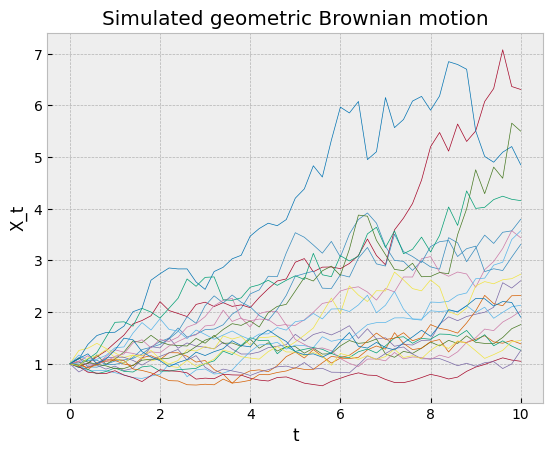
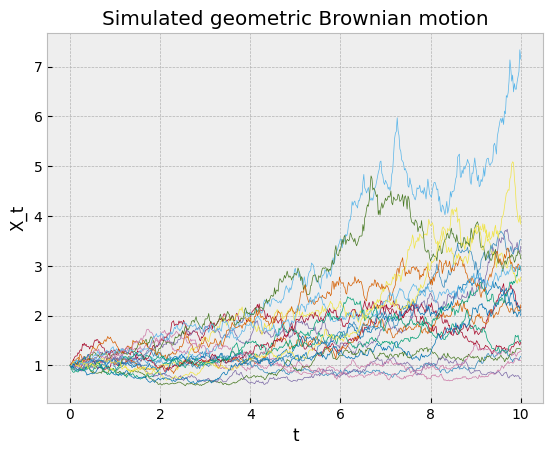
Built site for gh-pages

diff --git a/posts/2023-11-12-Masked-autoregressive-flows-for-stochastic-differential-equations.html b/posts/2023-11-12-Masked-autoregressive-flows-for-stochastic-differential-equations.html
@@ -8,7 +8,7 @@
 
 <meta name="author" content="Yves Barmaz">
 <meta name="dcterms.date" content="2023-11-12">
-<meta name="description" content="Common methods for solving SDEs are discussed, along with their limitations for solving inference problems. Conditional masked autoregressive flows are presented as a flexible alternative.">
+<meta name="description" content="Common methods for solving SDEs are discussed, along with their limitations when it comes to statistical inference. Conditional masked autoregressive flows are presented as a flexible alternative.">
 
 <title>Yves Barmaz’s blog - Masked autoregressive flows for stochastic differential equations</title>
 <style>
@@ -172,7 +172,7 @@ code span.wa { color: #60a0b0; font-weight: bold; font-style: italic; } /* Warni
       <h1 class="title">Masked autoregressive flows for stochastic differential equations</h1>
                   <div>
         <div class="description">
-          Common methods for solving SDEs are discussed, along with their limitations for solving inference problems. Conditional masked autoregressive flows are presented as a flexible alternative.
+          Common methods for solving SDEs are discussed, along with their limitations when it comes to statistical inference. Conditional masked autoregressive flows are presented as a flexible alternative.
         </div>
       </div>
                           <div class="quarto-categories">
@@ -219,23 +219,24 @@ code span.wa { color: #60a0b0; font-weight: bold; font-style: italic; } /* Warni
 <p><span class="math display">\[
 dX_t = \mu(X_t, t)dt + \sigma(X_t, t)dW_t,
 \]</span></p>
-<p>with a drift <span class="math inline">\(\mu(X, t)\)</span> and a volatility <span class="math inline">\(\sigma(X, t)\)</span>.</p>
+<p>where <span class="math inline">\(\mu(X, t)\)</span> is called the drift and <span class="math inline">\(\sigma(X, t)\)</span> the volatility.</p>
 <p>In statistical physics, the random variable <span class="math inline">\(X_t\)</span> can describe the positions at time <span class="math inline">\(t\)</span> of a population of molecules swimming around in water, bumping randomly into smaller molecules following a <a href="https://en.wikipedia.org/wiki/Wiener_process">Wiener process</a> <span class="math inline">\(W_t\)</span>. In finance, <span class="math inline">\(X_t\)</span> can describe the uncertainty over an asset price in the future due to the random behavior of market participants.</p>
-<p>Solving this SDE means finding the probability distribution of <span class="math inline">\(X_t\)</span> for <span class="math inline">\(t&gt;0\)</span>, given the initial distribution of <span class="math inline">\(X_{t=0}\)</span>. This can be done by specifying the probability density function (PDF) <span class="math inline">\(p(x; t)\)</span> for <span class="math inline">\(t&gt;0\)</span> given the initial PDF <span class="math inline">\(p(x; t=0)\)</span> (here the semicolon indicates that <span class="math inline">\(x\)</span> is the value realized by the random variable and <span class="math inline">\(t\)</span> the time parameter).</p>
-<p>For certain special cases of <span class="math inline">\(\mu(X, t)\)</span> and <span class="math inline">\(\sigma(X, t)\)</span>, that include Brownian motions (where <span class="math inline">\(\mu\)</span> and <span class="math inline">\(\sigma\)</span> are both constant), the solution follows a normal distribution <span class="math inline">\(X_t \sim \mathcal{N}(m(t), s(t))\)</span> where the parameters <span class="math inline">\(m(t)\)</span> and <span class="math inline">\(s(t)\)</span> obey certain ordinary differential equations, which can be solved with standard methods.</p>
+<p>Solving this SDE means finding the probability distribution of <span class="math inline">\(X_t\)</span> for <span class="math inline">\(t&gt;0\)</span>, given the initial distribution of <span class="math inline">\(X_{t=0}\)</span>. This can be done by specifying the probability density function (PDF) <span class="math inline">\(p(x; t)\)</span> for <span class="math inline">\(t&gt;0\)</span> given the initial PDF <span class="math inline">\(p(x; t=0)\)</span> (here the semicolon indicates that <span class="math inline">\(x\)</span> is the value realized by the random variable, and <span class="math inline">\(t\)</span> the time parameter that indexes the distributions).</p>
+<p>For certain special cases of <span class="math inline">\(\mu(X, t)\)</span> and <span class="math inline">\(\sigma(X, t)\)</span>, the SDE can be solved explicitly (see these <a href="https://ethz.ch/content/dam/ethz/special-interest/mavt/dynamic-systems-n-control/idsc-dam/Lectures/Stochastic-Systems/SDE.pdf">lecture notes</a> for some examples). In general, one has to rely on numerical methods.</p>
 </section>
 <section id="euler-maruyama" class="level2">
 <h2 class="anchored" data-anchor-id="euler-maruyama">Euler-Maruyama</h2>
-<p>In general, one relies instead on numerical approximations, for instance the <a href="https://en.wikipedia.org/wiki/Euler%E2%80%93Maruyama_method">Euler–Maruyama method</a> that generates approximated samples of the process <span class="math inline">\(X_t\)</span> at discretized time steps <span class="math inline">\(t_1, \dots, t_N\)</span>,</p>
+<p>The <a href="https://en.wikipedia.org/wiki/Euler%E2%80%93Maruyama_method">Euler–Maruyama method</a> is probably the most flexible one. It generates approximated samples of the process <span class="math inline">\(X_t\)</span> at discretized time steps <span class="math inline">\(t_1, \dots, t_N\)</span>,</p>
 <p><span class="math display">\[
-X_{i+1} = X_i + \mu(X_i, t_i)\Delta t_i + \sigma(X_i, t_i)\,\sqrt{\Delta t_i}\, Z_i, \quad Z_i \sim \mathcal{N}(0,1).
+X_{i+1} = X_i + \mu(X_i, t_i)\Delta t_i + \sigma(X_i, t_i)\,\sqrt{\Delta t_i}\, Z_i,
 \]</span></p>
-<p>In TensorFlow Probability, this can be implemented as a <code>tfd.MarkovChain</code> distribution. The following code snippet implements a geometric Brownian motion.</p>
-<div class="cell" data-execution_count="2">
+<p>where every <span class="math inline">\(Z_i\)</span> is drawn from a standard normal distribution.</p>
+<p>In TensorFlow Probability, this method can be implemented as a <code>tfd.MarkovChain</code> distribution. The following code snippet illustrates it with a geometric Brownian motion.</p>
+<div class="cell" data-execution_count="12">
 <div class="sourceCode cell-code" id="cb1"><pre class="sourceCode python code-with-copy"><code class="sourceCode python"><span id="cb1-1"><a href="#cb1-1" aria-hidden="true" tabindex="-1"></a>drift <span class="op">=</span> <span class="fl">.1</span></span>
 <span id="cb1-2"><a href="#cb1-2" aria-hidden="true" tabindex="-1"></a>volatility <span class="op">=</span> <span class="fl">.2</span></span>
 <span id="cb1-3"><a href="#cb1-3" aria-hidden="true" tabindex="-1"></a></span>
-<span id="cb1-4"><a href="#cb1-4" aria-hidden="true" tabindex="-1"></a>n_steps <span class="op">=</span> <span class="dv">51</span></span>
+<span id="cb1-4"><a href="#cb1-4" aria-hidden="true" tabindex="-1"></a>n_steps <span class="op">=</span> <span class="dv">501</span></span>
 <span id="cb1-5"><a href="#cb1-5" aria-hidden="true" tabindex="-1"></a>time <span class="op">=</span> tf.linspace(<span class="fl">0.</span>, <span class="dv">10</span>, n_steps)</span>
 <span id="cb1-6"><a href="#cb1-6" aria-hidden="true" tabindex="-1"></a>time_step <span class="op">=</span> np.mean(np.diff(time))</span>
 <span id="cb1-7"><a href="#cb1-7" aria-hidden="true" tabindex="-1"></a></span>
@@ -247,7 +248,7 @@ X_{i+1} = X_i + \mu(X_i, t_i)\Delta t_i + \sigma(X_i, t_i)\,\sqrt{\Delta t_i}\, 
 <span id="cb1-13"><a href="#cb1-13" aria-hidden="true" tabindex="-1"></a>            num_steps<span class="op">=</span>n_steps,</span>
 <span id="cb1-14"><a href="#cb1-14" aria-hidden="true" tabindex="-1"></a>            name<span class="op">=</span><span class="st">'geometric_brownian_motion'</span>)</span></code><button title="Copy to Clipboard" class="code-copy-button"><i class="bi"></i></button></pre></div>
 </div>
-<div class="cell" data-execution_count="3">
+<div class="cell" data-execution_count="13">
 <div class="cell-output cell-output-display">
 <p><img src="2023-11-12-Masked-autoregressive-flows-for-stochastic-differential-equations_files/figure-html/cell-4-output-1.png" class="img-fluid"></p>
 </div>
@@ -256,11 +257,11 @@ X_{i+1} = X_i + \mu(X_i, t_i)\Delta t_i + \sigma(X_i, t_i)\,\sqrt{\Delta t_i}\, 
 <p><span class="math display">\[
 \mathbb{E}\left[f(X_t)\right] = \int f(x)\,p(x; t)\,\mathrm{d}x,
 \]</span></p>
-<p>for instance in asset pricing problems, and these samples are usually good enough to find Monte Carlo estimates</p>
+<p>for instance in asset pricing problems. Samples generated by the Euler-Maruyama methods can be used in Monte Carlo estimates</p>
 <p><span class="math display">\[
 \mathbb{E}\left[f(X_t)\right] \approx \sum_k f(\hat X_{t, k}),
 \]</span></p>
-<p>where the sum is taken over several realizations of the Euler-Maruyama integration.</p>
+<p>where the sum is taken over several realizations of the stochastic numerical integration.</p>
 <p>Other times, one needs to know the probability density function at a given time <span class="math inline">\(t\)</span>, for instance in inference problems with models that have a stochastic process component. Markov chains could provide that in theory, but at the expense of marginalizing out all the intermediate steps.</p>
 </section>
 <section id="fokker-planck" class="level2">
@@ -269,17 +270,17 @@ X_{i+1} = X_i + \mu(X_i, t_i)\Delta t_i + \sigma(X_i, t_i)\,\sqrt{\Delta t_i}\, 
 <p><span class="math display">\[
 \frac{\partial p(x; t)}{\partial t} = -\frac{\partial}{\partial x}[\mu(x, t)p(x; t)] + \frac{1}{2}\frac{\partial^2}{\partial x^2}[\sigma^2(x, t)p(x; t)].
 \]</span></p>
-<p>It describes how the initial distribution <span class="math inline">\(p(x;0)\)</span> is shifting under the influence of the drift term and diffusing because of the volatility term. For the non-physicists who want to try this at home, <span class="math inline">\(p(x;0)\)</span> could indicate the position of a tea bag in a cup of hot water, <span class="math inline">\(\mu(x, t)\)</span> could describe how the water has been swirled, and <span class="math inline">\(\sigma^2(x, t)\)</span> would depend on the thermal agitation of the water.</p>
-<p>These PDEs are usually solved numerically. This can be difficult when <span class="math inline">\(\mu(X, t)\)</span> renders the equation stiff (this happens often in models of noisy electric circuits used for biophysical measurements) or in high-dimensional problems (for instance joint distributions of stock prices in large markets).</p>
-<p>A limitation of this modelling approach is the difficulty to sample from a distribution given by its probability density function. This requires specialized algorithms, so in practice it is probably better to rely on Euler-Maruyama methods for sampling, and Fokker-Planck equations for density evaluation. Furthermore, the log-densities should be compatible with automatic differentiation to be useful in probabilistic inference algorithms, which is not always straightforward with PDE solvers.</p>
+<p>It describes how the initial distribution <span class="math inline">\(p(x;0)\)</span> is shifting under the influence of the drift term and diffusing because of the volatility term. For the non-physicists who want to try this at home, <span class="math inline">\(p(x;0)\)</span> could indicate the position of a tea bag in a cup of hot water, <span class="math inline">\(\mu(x, t)\)</span> could describe how the water has been stirred, and <span class="math inline">\(\sigma(x, t)\)</span> would depend on the thermal agitation of the water.</p>
+<p>These PDEs are usually solved numerically. This can be difficult when <span class="math inline">\(\mu(X, t)\)</span> renders the equation <a href="https://en.wikipedia.org/wiki/Stiff_equation">stiff</a> (this happens in models of noisy microcircuits) or in high-dimensional problems (for instance models of the joint distribution of stock prices in large markets).</p>
+<p>A limitation of this modelling approach is the difficulty to sample from a distribution given by an arbitrary probability density function. This requires specialized algorithms, so in practice it is probably better to rely on Euler-Maruyama methods for sampling, and Fokker-Planck equations for density evaluation. Furthermore, the log-densities should be compatible with automatic differentiation to be useful in probabilistic inference algorithms, which is not always straightforward with PDE solvers.</p>
 </section>
 <section id="probabilistic-machine-learning" class="level2">
 <h2 class="anchored" data-anchor-id="probabilistic-machine-learning">Probabilistic machine learning</h2>
-<p>Probabilistic machine learning provides a third approach, where one gets a model that can both generate new samples and evaluate densities in an a framework supporting automatic differentiation. The idea is to first generate training data with the Euler-Maruyama method, and then use machine learning to fit a probability distribution parameterized by a neural network to this synthetic data. The training objective is conditional density estimation of the synthetic training data. This distribution should both be convenient to sample from and have a density that can be evaluated easily.</p>
-<p>Such distributions can be constructed with <a href="https://arxiv.org/abs/1705.07057">normalizing flows</a> parameterized by conditional <a href="https://arxiv.org/abs/1502.03509">autoregressive networks</a>. In a nutshell, a normalizing flow deforms a normal distribution into a more generic one through an invertible mapping. This mapping can be implemented as a neural network, provided the network is invertible, and the autoregressive condition imposed by masking certain weights ensures just that. Moreover, these autoregressive networks can accept conditional variables, so that they can estimate the conditional density <span class="math inline">\(p(x; t)\)</span> if <span class="math inline">\(t\)</span> is passed to the model as a conditional variable.</p>
-<div class="cell" data-execution_count="4">
+<p>Probabilistic machine learning provides a third approach, where one gets a model that can both generate new samples and evaluate densities in an a framework supporting automatic differentiation. The idea is to first generate training data with the Euler-Maruyama method, and then use machine learning to fit a probability distribution parameterized by a neural network to this synthetic data. The training objective is the conditional density estimation of the synthetic training data. This distribution should both be convenient to sample from and have a density that can be evaluated easily.</p>
+<p>Such distributions can be constructed with <a href="https://arxiv.org/abs/1705.07057">autoregressive normalizing flows</a> parameterized by conditional <a href="https://arxiv.org/abs/1502.03509">masked autoregressive networks</a>. In a nutshell, a normalizing flow deforms a normal distribution into a more generic one through an invertible mapping. This mapping can be implemented as a neural network, provided the network is invertible, and the autoregressive condition imposed by masking certain weights ensures just that. Moreover, these autoregressive networks can accept conditional variables, so that they can estimate the parametric density <span class="math inline">\(p(x; t)\)</span> if <span class="math inline">\(t\)</span> is passed to the model as a conditional variable.</p>
+<div class="cell" data-execution_count="32">
 <div class="sourceCode cell-code" id="cb2"><pre class="sourceCode python code-with-copy"><code class="sourceCode python"><span id="cb2-1"><a href="#cb2-1" aria-hidden="true" tabindex="-1"></a><span class="co"># Generate synthetic training data</span></span>
-<span id="cb2-2"><a href="#cb2-2" aria-hidden="true" tabindex="-1"></a>n <span class="op">=</span> <span class="dv">1000</span></span>
+<span id="cb2-2"><a href="#cb2-2" aria-hidden="true" tabindex="-1"></a>n <span class="op">=</span> <span class="dv">200</span></span>
 <span id="cb2-3"><a href="#cb2-3" aria-hidden="true" tabindex="-1"></a>s <span class="op">=</span> geom_brownian_motion.sample(n)</span>
 <span id="cb2-4"><a href="#cb2-4" aria-hidden="true" tabindex="-1"></a></span>
 <span id="cb2-5"><a href="#cb2-5" aria-hidden="true" tabindex="-1"></a>t <span class="op">=</span> tf.reshape(tf.stack(s.shape[<span class="dv">0</span>]<span class="op">*</span>[time], axis<span class="op">=</span><span class="dv">0</span>)[:,<span class="dv">1</span>:], (<span class="op">-</span><span class="dv">1</span>, <span class="dv">1</span>))</span>
@@ -316,13 +317,13 @@ X_{i+1} = X_i + \mu(X_i, t_i)\Delta t_i + \sigma(X_i, t_i)\,\sqrt{\Delta t_i}\, 
 <span id="cb2-36"><a href="#cb2-36" aria-hidden="true" tabindex="-1"></a>history <span class="op">=</span> model.fit(x<span class="op">=</span>[X, t],</span>
 <span id="cb2-37"><a href="#cb2-37" aria-hidden="true" tabindex="-1"></a>                    y<span class="op">=</span>np.zeros((X.shape[<span class="dv">0</span>], <span class="dv">0</span>), dtype<span class="op">=</span>np.float32),</span>
 <span id="cb2-38"><a href="#cb2-38" aria-hidden="true" tabindex="-1"></a>                    batch_size<span class="op">=</span>batch_size,</span>
-<span id="cb2-39"><a href="#cb2-39" aria-hidden="true" tabindex="-1"></a>                    epochs<span class="op">=</span><span class="dv">70</span>,</span>
+<span id="cb2-39"><a href="#cb2-39" aria-hidden="true" tabindex="-1"></a>                    epochs<span class="op">=</span><span class="dv">40</span>,</span>
 <span id="cb2-40"><a href="#cb2-40" aria-hidden="true" tabindex="-1"></a>                    steps_per_epoch<span class="op">=</span>X.shape[<span class="dv">0</span>] <span class="op">//</span> batch_size,</span>
 <span id="cb2-41"><a href="#cb2-41" aria-hidden="true" tabindex="-1"></a>                    shuffle<span class="op">=</span><span class="va">True</span>,</span>
 <span id="cb2-42"><a href="#cb2-42" aria-hidden="true" tabindex="-1"></a>                    verbose<span class="op">=</span><span class="va">False</span>)</span></code><button title="Copy to Clipboard" class="code-copy-button"><i class="bi"></i></button></pre></div>
 </div>
 <p>Here the autoregressive flow was chained with an exponential map to constrain its output to the support of the target distribution, <span class="math inline">\(\mathbb{R}_{&gt;0}\)</span>. Note how the conditional variable <span class="math inline">\(t\)</span> is passed to the <code>log_prob</code> method in a dictionary of keyword arguments to make sure it ends up in the right neural network.</p>
-<div class="cell" data-execution_count="6">
+<div class="cell" data-execution_count="34">
 <div class="cell-output cell-output-display">
 <p><img src="2023-11-12-Masked-autoregressive-flows-for-stochastic-differential-equations_files/figure-html/cell-7-output-1.png" class="img-fluid"></p>
 </div>
@@ -332,13 +333,13 @@ X_{i+1} = X_i + \mu(X_i, t_i)\Delta t_i + \sigma(X_i, t_i)\,\sqrt{\Delta t_i}\, 
 X_t = X_0 e^{(\mu - \frac{\sigma^2}{2})t + \sigma W_t}
 \]</span></p>
 <p>of the geometric Brownian motion SDE, which follows a log-normal distribution. This was the main reason for using this example.</p>
-<div class="cell" data-execution_count="7">
+<div class="cell" data-execution_count="35">
 <div class="cell-output cell-output-display">
 <p><img src="2023-11-12-Masked-autoregressive-flows-for-stochastic-differential-equations_files/figure-html/cell-8-output-1.png" class="img-fluid"></p>
 </div>
 </div>
 <p>In the same plot, one can see they more or less agree.</p>
-<div class="cell" data-execution_count="9">
+<div class="cell" data-execution_count="36">
 <div class="cell-output cell-output-display">
 <p><img src="2023-11-12-Masked-autoregressive-flows-for-stochastic-differential-equations_files/figure-html/cell-9-output-1.png" class="img-fluid"></p>
 </div>
@@ -346,8 +347,8 @@ X_t = X_0 e^{(\mu - \frac{\sigma^2}{2})t + \sigma W_t}
 </section>
 <section id="flexible-models-for-complex-applications" class="level2">
 <h2 class="anchored" data-anchor-id="flexible-models-for-complex-applications">Flexible models for complex applications</h2>
-<p>For the sake of the example, the model presented here only accepted the time as a conditional variable, and the initial value was deterministic. One can of course draw the drift and volatility parameters as well as the initial value from proposal distributions and pass them as further conditional variables to the model in order to learn a parameterized conditional distribution <span class="math inline">\(p(x;t\vert \mu, \sigma, x_0)\)</span>. This is particularly useful if the ultimate goal is to perform Bayesian inference of these parameters from experimental data. Or one can learn a transition function <span class="math inline">\(p(x; t\vert t_0; x_0)\)</span> of a Markov chain if the problem involves discrete observations of an underlying stochastic process.</p>
-<p>Of course, this approach generalizes beyond geometric Brownian motions, and the implementation in TensorFlow makes it easy to run these models on accelerated hardware. I hope this blog post will trigger some ideas!</p>
+<p>For the sake of example, the model presented here only accepted the time <span class="math inline">\(t\)</span> as a conditional variable, and the initial value was deterministic. One can generate richer training data by drawing the drift and volatility parameters as well as the initial value from proposal distributions and pass them as further conditional variables to the model. This makes it possible to learn a parameterized conditional distribution <span class="math inline">\(p(x;t\vert \mu, \sigma, x_0)\)</span> (here <span class="math inline">\(t\)</span> is the parameter indexing the distributions, and <span class="math inline">\(\mu\)</span>, <span class="math inline">\(\sigma\)</span> and <span class="math inline">\(x_0\)</span> are conditioning it). This is particularly useful if the ultimate goal is to perform Bayesian inference of the parameters <span class="math inline">\(\mu\)</span>, <span class="math inline">\(\sigma\)</span> or <span class="math inline">\(x_0\)</span> from experimental data. Or one can use it to construct a transition function <span class="math inline">\(p(x; t\vert t_0; x_0)\)</span> of a Markov chain if the problem involves discrete observations of an underlying stochastic process.</p>
+<p>The general methodology applied here falls under the scope of <a href="https://simulation-based-inference.org/">simulation based inference</a>. This growing field of computational statistics addresses problems where a model can accurately simulate data, but it has no tractable <a href="https://en.wikipedia.org/wiki/Likelihood_principle">likelihood</a> function that would enable statistical inference. The Euler-Maruyama method is a good example as deriving a likelihood function would require integrating over all intermediate time steps. As a workaround, some simulation based inference algorithms propose to derive a surrogate likelihood function through machine learning, which is what was done here with the conditional masked autoregressive flow.</p>
 
 
 </section>

diff --git a/index.html b/index.html
@@ -164,7 +164,7 @@ ul.task-list li input[type="checkbox"] {
 
 <div class="quarto-listing quarto-listing-container-default" id="listing-listing">
 <div class="list quarto-listing-default">
-<div class="quarto-post image-right" data-index="0" data-categories="probabilistic programming,tensorflow-probability,machine learning" data-listing-date-sort="1699743600000" data-listing-file-modified-sort="1699821997064" data-listing-reading-time-sort="5.035">
+<div class="quarto-post image-right" data-index="0" data-categories="probabilistic programming,tensorflow-probability,machine learning" data-listing-date-sort="1699743600000" data-listing-file-modified-sort="1699881935616" data-listing-reading-time-sort="5.44">
 <div class="thumbnail">
 <a href="./posts/2023-11-12-Masked-autoregressive-flows-for-stochastic-differential-equations.html">
 <div class="thumbnail-image">
@@ -194,7 +194,7 @@ machine learning
 </div>
 <a href="./posts/2023-11-12-Masked-autoregressive-flows-for-stochastic-differential-equations.html">
 <div class="listing-description">
-<p>Common methods for solving SDEs are discussed, along with their limitations for solving inference problems. Conditional masked autoregressive flows are presented as a flexible alternative.</p>
+<p>Common methods for solving SDEs are discussed, along with their limitations when it comes to statistical inference. Conditional masked autoregressive flows are presented as a flexible alternative.</p>
 </div>
 </a>
 </div>
